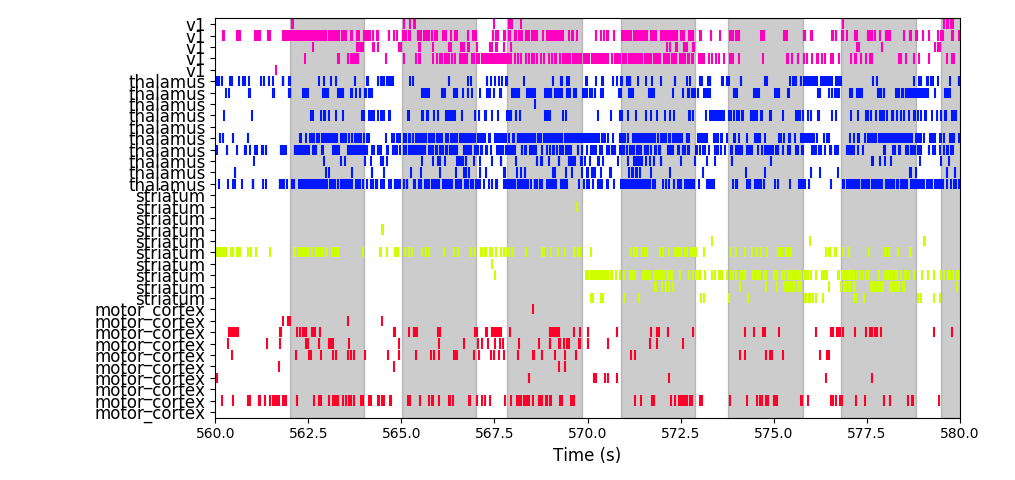
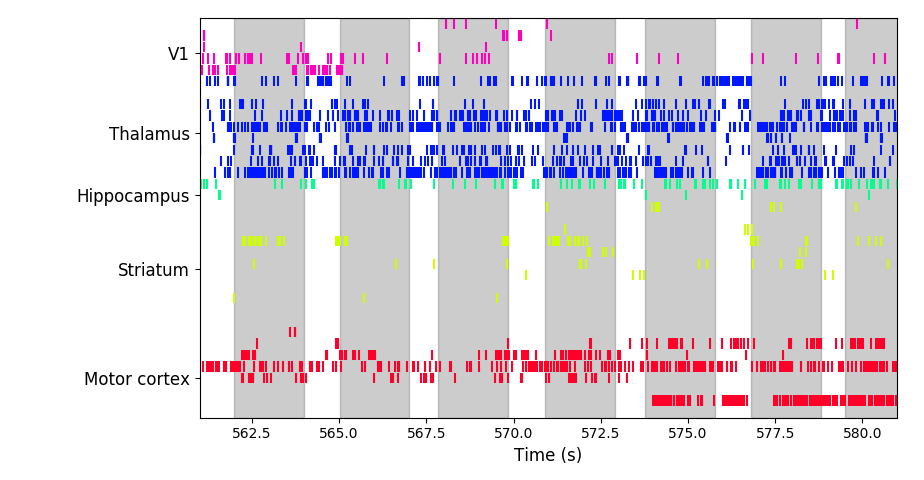
Added a raster plotting function. Added a directory for poster images.

diff --git a/py/regionalCorrelationsPlotting.py b/py/regionalCorrelationsPlotting.py
@@ -26,10 +26,13 @@ def plotRasterWithCellsAndTimes(region_sorted_cell_ids, spike_time_dict, start_t
             plt.vlines(x=spike_times, ymin=i+0.05, ymax=i+0.95, color=region_to_colour[relevant_cell_info.loc[cell_id]['region']], alpha=1.0)
     plt.ylim([0, num_cells])
     for trial_info in relevant_trials_info:
-        trial_start = trial_info[0]; trial_stop = trial_info[1];
-        plt.fill_between(x=[trial_start, trial_stop], y1=0, y2=num_cells, color='black', alpha=0.2)
+        if trial_info[2] != 17:
+            trial_start = trial_info[0]; trial_stop = trial_info[1];
+            plt.fill_between(x=[trial_start, trial_stop], y1=0, y2=num_cells, color='black', alpha=0.2)
     plt.xlabel('Time (s)', fontsize='large')
     plt.xlim([start_time, stop_time])
-    plt.yticks(0.5+np.arange(num_cells), relevant_cell_info['region'].values, fontsize='large')
+    y_ticks = np.array([np.flatnonzero(relevant_cell_info['region'] == r).mean() for r in relevant_cell_info['region'].unique()])
+    tick_labels = np.array([r.replace('_', ' ').capitalize() for r in relevant_cell_info['region'].unique()])
+    plt.yticks(y_ticks, tick_labels, fontsize='large')
     plt.tight_layout()
 
